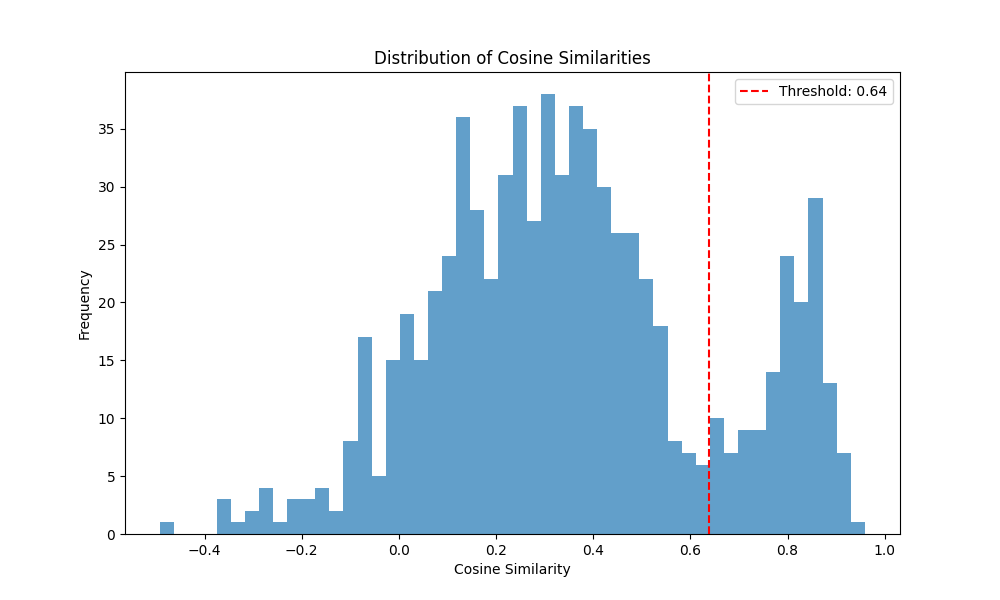
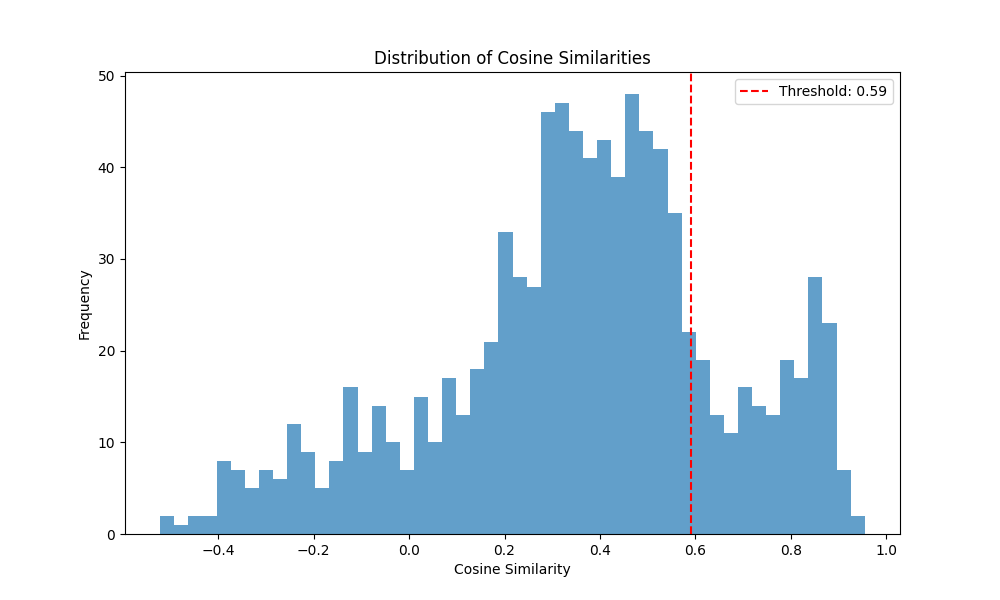
Более лёгкая модель на 100 эпохах
(cherry picked from commit 86cef4388e78bfdb1948242ee10f84015e1438cc)

diff --git a/main.py b/main.py
@@ -483,9 +483,9 @@ def main():
     print(f"Using device: {device}")
 
     BATCH_SIZE = 12  # уменьшено для видеопамяти
-    EPOCHS = 30
+    EPOCHS = 100
     LR = 5e-6
-    NEG_SAMPLES = 3  # несколько негативов на один пример
+    NEG_SAMPLES = 4  # несколько негативов на один пример
 
     # Загрузка данных
     dir_path = "corpus"
@@ -544,7 +544,7 @@ def main():
 
     # Инициализация модели
     model = TripletBERT().to(device)
-    optimizer = AdamW(model.parameters(), lr=LR, weight_decay=1e-4)
+    optimizer = AdamW(model.parameters(), lr=LR, weight_decay=1e-2)
     criterion = TripletLoss(base_margin=0.5, hard_margin_factor=1.5)
 
     # Обучение
@@ -577,7 +577,7 @@ def main():
             print(f"Val Precision: {val_precision:.4f} | Recall {val_recall:.4f} | Threshold {val_threshold:.4f}")
 
             # Уведомление
-            if epoch % 3 == 0:
+            if epoch % 10 == 0:
                 notify(f"Epoch {epoch + 1}/{EPOCHS}\n"
                        f"Val Loss: {val_loss:.4f} | Val F1: {val_f1:.4f}\n"
                        f"Distances: Pos {val_pos_dist:.4f} | Neg {val_neg_dist:.4f}")
